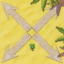
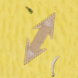
Временная точка сохранения.

diff --git a/Jackal/Models/Game.cs b/Jackal/Models/Game.cs
@@ -32,7 +32,7 @@ namespace Jackal.Models
         /// <summary>
         /// Лист игроков.
         /// </summary>
-        public static ObservableCollection<Player> Players { get; } = new ObservableCollection<Player>();
+        public static ObservableCollection<Player> Players { get; } = new();
         /// <summary>
         /// Игрок, активный в текущий момент.
         /// </summary>
@@ -65,6 +65,8 @@ namespace Jackal.Models
         static readonly IEnumerable<(int, List<Player>)> _orderedAllies = from allies in _ListAllies
                                                                           orderby allies.Sum(player => player.Gold) descending
                                                                           select (allies.Sum(player => player.Gold), allies);
+
+        public static ObservableCollection<Pirate> Pirates { get; } = new();
 
         /// <summary>
         /// Пират, выбранный на текущий момент.
@@ -159,8 +161,9 @@ namespace Jackal.Models
         /// <param name="autosave">Флаг того, что необходимо включить автосохранения.</param>
         public static void CreateMap(IEnumerable<Player> players, int seed, bool autosave = true)
         {
-            //MapType type = MapType.Quadratic;
-            MapType type = MapType.Hexagonal;
+            MapType type;
+            type = MapType.Quadratic;
+            //type = MapType.Hexagonal;
 
             #region инициализация игроков с командами
             foreach (Player player in players)
@@ -431,7 +434,7 @@ namespace Jackal.Models
             #endregion
 
             #region Создание кораблей
-            if (Players.Count == 3)
+            if (Players.Count == 3 && type == MapType.Quadratic)
             {
                 Map.ShipPlacements[1].InitialCoordinates = new(8, 12);
                 Map.ShipPlacements[3].InitialCoordinates = new(8, 0);
@@ -461,6 +464,9 @@ namespace Jackal.Models
 
             foreach (Cell cell in Map)
                 cell.SetSelectableCoords(Map);
+
+            foreach (Player player in Players)
+                Pirates.AddRange(player.Pirates);
 
             if (autosave)
                 SaveOperator.StartAutosave(Players, seed);
@@ -806,7 +812,7 @@ namespace Jackal.Models
         /// <summary>
         /// Делегат запуска анимации перемещения пирата.
         /// </summary>
-        public static Func<Cell,Task>? StartPirateAnimation;
+        public static Func<int, Task>? StartPirateAnimation;
         /// <summary>
         /// Делегат скрытия кнопки пирата для анимации.
         /// </summary>
@@ -818,7 +824,7 @@ namespace Jackal.Models
         static void OnStartPirateAnimation(Cell cell)
         {
             if (StartPirateAnimation != null)
-                Dispatcher.UIThread.InvokeAsync(() => StartPirateAnimation(cell)).Wait();
+                Dispatcher.UIThread.InvokeAsync(() => StartPirateAnimation(Map.IndexOf(cell))).Wait();
         }
         /// <summary>
         /// Метод скрытия кнопки для анимации пирата после перемещения пирата.

diff --git a/Jackal/Views/GameView.axaml.cs b/Jackal/Views/GameView.axaml.cs
@@ -45,7 +45,7 @@ namespace Jackal.Views
             _pirateAnimation.Children[0].Setters.Add(new Setter() { Property = MarginProperty });
             _pirateAnimation.Children.Add(new KeyFrame { KeyTime = _pirateAnimation.Duration });
             _pirateAnimation.Children[1].Setters.Add(new Setter() { Property = MarginProperty });
-            Game.StartPirateAnimation = StartPirateAnimation;
+            //Game.StartPirateAnimation = StartPirateAnimation;
             Game.EndPirateMove = () => PirateAnimator.IsVisible = false;
             #endregion
         }
@@ -54,32 +54,32 @@ namespace Jackal.Views
         readonly Animation _pirateAnimation;
         async Task StartPirateAnimation(Cell cell)
         {
-            Cell[] cells = new Cell[2]
-            {
-                Game.SelectedPirate.Cell,
-                cell
-            };
-            int[] pirateNumbers = new int[2]
-            {
-                _reversedIndexes[cells[0].Pirates.IndexOf(Game.SelectedPirate)],
-                _reversedIndexes[cells[1].Pirates.Count]
-            };
-            double[] x = new double[2];
-            double[] y = new double[2];
-            for (int i = 0; i < 2; i++)
-            {
-                y[i] = cells[i].Y + (pirateNumbers[i] / 3) * PirateAnimator.Height + 11;
-                x[i] = cells[i].X + (pirateNumbers[i] % 3) * PirateAnimator.Width + 4;
-            }
+            //Cell[] cells = new Cell[2]
+            //{
+            //    Game.SelectedPirate.Cell,
+            //    cell
+            //};
+            //int[] pirateNumbers = new int[2]
+            //{
+            //    _reversedIndexes[cells[0].Pirates.IndexOf(Game.SelectedPirate)],
+            //    _reversedIndexes[cells[1].Pirates.Count]
+            //};
+            //double[] x = new double[2];
+            //double[] y = new double[2];
+            //for (int i = 0; i < 2; i++)
+            //{
+            //    y[i] = cells[i].Y + (pirateNumbers[i] / 3) * PirateAnimator.Height + 11;
+            //    x[i] = cells[i].X + (pirateNumbers[i] % 3) * PirateAnimator.Width + 4;
+            //}
 
-            _pirateAnimation.Children[0].Setters[0].Value = new Thickness(0, y[0], x[0], 0);
-            _pirateAnimation.Children[1].Setters[0].Value = new Thickness(0, y[1], x[1], 0);
+            //_pirateAnimation.Children[0].Setters[0].Value = new Thickness(0, y[0], x[0], 0);
+            //_pirateAnimation.Children[1].Setters[0].Value = new Thickness(0, y[1], x[1], 0);
 
-            PirateAnimator.Margin = new Thickness(0, y[0], x[0], 0);
-            PirateAnimator.DataContext = Game.SelectedPirate;
-            PirateAnimator.IsVisible = true;
-            Game.SelectedPirate.IsVisible = false;
-            await _pirateAnimation.RunAsync(PirateAnimator, null);
+            //PirateAnimator.Margin = new Thickness(0, y[0], x[0], 0);
+            //PirateAnimator.DataContext = Game.SelectedPirate;
+            //PirateAnimator.IsVisible = true;
+            //Game.SelectedPirate.IsVisible = false;
+            //await _pirateAnimation.RunAsync(PirateAnimator, null);
         }
         int[] _reversedIndexes = new int[6]
         {

diff --git a/Jackal/ViewModels/GameViewModel.cs b/Jackal/ViewModels/GameViewModel.cs
@@ -23,6 +23,7 @@ namespace Jackal.ViewModels
     {
         public ViewModelActivator Activator { get; }
         readonly IDisposable _disPlayers;
+        readonly IDisposable _disPirates;
 
 
         public GameViewModel(IEnumerable<Player>? players, int seed, IEnumerable<int[]>? operations = null)
@@ -35,7 +36,12 @@ namespace Jackal.ViewModels
 
             Game.CreateMap(players, seed, autosave: operations == null);
             Game.ReadOperations(operations ?? new List<int[]>());
-            
+            Game.StartPirateAnimation = (cellIndex) =>
+            {
+                PirateViewModel pirate = Pirates.First(vm => vm.Pirate == Game.SelectedPirate);
+                Cells[cellIndex].AddPirate(pirate);
+                return Task.Delay(300);
+            };
             Game.EnableInterface = (isEnabled) => IsEnabled = isEnabled;
             Game.DeselectPirate = () => SelectedPirate = Pirate.Empty;
             Game.SetWinner = (players) => Views.MessageBox.Show(string.Format("Ура победител{0}:\n{1} !",
@@ -43,8 +49,15 @@ namespace Jackal.ViewModels
                                                                               string.Join('\n', players.Select(p => p.Name))));
             SelectedPirate = Pirate.Empty;
 
+            Cells = (from cell in Game.Map
+                     select new CellViewModel(cell)).ToArray();
+
             _disPlayers = Game.Players.ToObservableChangeSet()
                                       .Bind(out _players)
+                                      .Subscribe();
+            _disPirates = Game.Pirates.ToObservableChangeSet()
+                                      .Transform(p => new PirateViewModel(p, Cells))
+                                      .Bind(out _pirates)
                                       .Subscribe();
 
             this.WhenAnyValue(vm => vm.SelectedPirate)
@@ -55,15 +68,18 @@ namespace Jackal.ViewModels
             IsEnabled = players.First().IsControllable;
         }
 
-        public int MapHeight => Map.Type == MapType.Quadratic ? Map.RowsCount * 64 : 64 + (Map.RowsCount - 1) * 48;
-        public int MapWidth => 64 * Map.ColumnsCount;
+        public int MapHeight => Map.Type == MapType.Quadratic ? Map.RowsCount * CellViewModel.Height :
+                                                                CellViewModel.Height + (Map.RowsCount - 1) * CellViewModel.Height * 3 / 4;
+        public int MapWidth => CellViewModel.Width * Map.ColumnsCount;
 
         [Reactive] public bool IsEnabled { get; set; }
 
-        public List<Cell> Cells => Game.Map;
+        public CellViewModel[] Cells { get; }
 
         public ReadOnlyObservableCollection<Player> Players => _players;
         readonly ReadOnlyObservableCollection<Player> _players;
+        public ReadOnlyObservableCollection<PirateViewModel> Pirates => _pirates;
+        readonly ReadOnlyObservableCollection<PirateViewModel> _pirates;
 
         [Reactive] public Pirate SelectedPirate { get; set; }
         [ObservableAsProperty] public bool IsPirateSelected { get; }

diff --git a/Jackal/ViewModels/CellViewModel.cs b/Jackal/ViewModels/CellViewModel.cs
@@ -1,0 +1,73 @@
+using Jackal.Models;
+using Jackal.Models.Cells;
+using ReactiveUI;
+using ReactiveUI.Fody.Helpers;
+using System;
+using System.Collections.Generic;
+using System.Data.Common;
+using System.Linq;
+using System.Reactive.Linq;
+using System.Text;
+using System.Threading.Tasks;
+
+namespace Jackal.ViewModels
+{
+    public class CellViewModel : ViewModelBase
+    {
+        static CellViewModel()
+        {
+            Height = 64;
+            Width = Map.Type == MapType.Quadratic ? 64 : 56;
+            
+
+            if (Map.Type == MapType.Quadratic)
+            {
+                ComputeX = (row, column) => Width * column;
+                ComputeY = (row) => Height * row;
+            }
+            else
+            {
+                ComputeX = (row, column) => Width * column + (row - 7) * (Width / 2);
+                ComputeY = (row) => Height * 3 / 4 * row;
+            }
+        }
+        public CellViewModel(Cell cell)
+        {
+            Cell = cell;
+            PiratesVM = new();
+            CellDuration = TimeSpan.FromSeconds(0.5);
+
+            this.WhenAnyValue(vm => vm.Cell.Row, vm => vm.Cell.Column, ComputeX)
+                .ToPropertyEx(this, vm => vm.X);
+            this.WhenAnyValue(vm => vm.Cell.Row, ComputeY)
+                .ToPropertyEx(this, vm => vm.Y);
+        }
+
+        public Cell Cell { get; }
+
+        
+        public static int Height { get; }
+        public static int Width { get; }
+
+        readonly static Func<int, int, int> ComputeX;
+        readonly static Func<int, int> ComputeY;
+        [ObservableAsProperty] public int X { get; }
+        [ObservableAsProperty] public int Y { get; }
+
+        public TimeSpan CellDuration { get; }
+
+        public List<PirateViewModel?> PiratesVM { get; }
+        public void AddPirate(PirateViewModel pirateVM)
+        {
+            int index = PiratesVM.FindIndex(vm => vm == null);
+            if (index < 0)
+            {
+                index = PiratesVM.Count;
+                PiratesVM.Add(pirateVM);
+            }
+            else
+                PiratesVM[index] = pirateVM;
+            pirateVM.SetCell(this, index);
+        }
+    }
+}

diff --git a/Jackal/Models/Cells/Cell.cs b/Jackal/Models/Cells/Cell.cs
@@ -53,20 +53,10 @@ namespace Jackal.Models.Cells
         /// Угол, на который повёрнута клетка.
         /// </summary>
         public virtual int Angle { get; }
-        public int X
-        {
-            get
-            {
-                if (Map.Type == MapType.Quadratic) return Column * 64;
-
-                return Column * 64 + (Row - 7) * 32;
-            }
-        }
-        public int Y => Row * (Map.Type == MapType.Hexagonal ? 48 : 64);
         /// <summary>
         /// Название изображения клетки.
         /// </summary>
-        [Reactive] public string Image { get; protected set; }
+        [Reactive] public string Image { get; private set; }
         /// <summary>
         /// Флаг того, что изображение чёрно-белое.
         /// </summary>
@@ -85,15 +75,15 @@ namespace Jackal.Models.Cells
         /// <summary>
         /// Строка клетки.
         /// </summary>
-        public int Row { get; protected set; }
+        public int Row { get; private set; }
         /// <summary>
         /// Столбец клетки.
         /// </summary>
-        public int Column { get; protected set; }
+        public int Column { get; private set; }
         /// <summary>
         /// Координаты клетки.
         /// </summary>
-        public Coordinates Coords {get; protected set; }
+        public Coordinates Coords {get; private set; }
         /// <summary>
         /// Метод задаёт новые координаты клетки.
         /// </summary>
@@ -104,8 +94,6 @@ namespace Jackal.Models.Cells
             Row = row;
             Column = column;
             Coords = new(Row, Column);
-            this.RaisePropertyChanged(nameof(X));
-            this.RaisePropertyChanged(nameof(Y));
             this.RaisePropertyChanged(nameof(Row));
             this.RaisePropertyChanged(nameof(Column));
         }

diff --git a/Jackal/ViewModels/PirateViewModel.cs b/Jackal/ViewModels/PirateViewModel.cs
@@ -1,0 +1,58 @@
+using Jackal.Models.Pirates;
+using ReactiveUI;
+using ReactiveUI.Fody.Helpers;
+using System;
+using System.Collections.Generic;
+using System.Linq;
+using System.Reactive.Linq;
+using System.Text;
+using System.Threading.Tasks;
+
+namespace Jackal.ViewModels
+{
+    public class PirateViewModel : ViewModelBase
+    {
+        public PirateViewModel(Pirate pirate, CellViewModel[] cellsVM)
+        {
+            Pirate = pirate;
+            CellVM = cellsVM.First(cellVM => cellVM.Cell.ShipTeam == pirate.Team);
+            _index = CellVM.PiratesVM.Count;
+            CellVM.PiratesVM.Add(this);
+
+            this.WhenAnyValue(vm => vm.Index, vm => vm.CellVM.X, vm => vm.CellVM.Y,
+                (i, x, y) => x + i % 3 * (Size + 1) + 4)
+                .ToPropertyEx(this, vm => vm.X);
+            this.WhenAnyValue(vm => vm.Index, vm => vm.CellVM.X, vm => vm.CellVM.Y,
+                (i, x, y) => y + i / 3 * (Size + 1) + 11)
+                .ToPropertyEx(this, vm => vm.Y);
+        }
+
+        public Pirate Pirate { get; }
+        [Reactive] public CellViewModel CellVM { get; private set; }
+        public void SetCell(CellViewModel cellVM, int index)
+        {
+            CellVM.PiratesVM[Index] = null;
+            CellVM = cellVM;
+
+            Index = index;
+        }
+
+        int Index
+        {
+            get => _index;
+            set
+            {
+                _index = value;
+                this.RaisePropertyChanged(nameof(Index));
+            }
+        }
+        int _index;
+        [ObservableAsProperty] public int X { get; }
+        [ObservableAsProperty] public int Y { get; }
+
+        [Reactive] public TimeSpan AnimationDuration { get; private set; }
+        static readonly TimeSpan _pirateDuration = TimeSpan.FromSeconds(0.3);
+
+        public int Size => 18;
+    }
+}

diff --git a/Jackal/Models/Map.cs b/Jackal/Models/Map.cs
@@ -273,6 +273,7 @@ namespace Jackal.Models
                 this[coords.Row, coords.Column] = value;
             }
         }
+        public new int IndexOf(Cell cell) => (int)_indexes[cell.Row, cell.Column];
 
         /// <summary>
         /// Метод возвращает перечисление клеток, имеющих заданные координаты.
